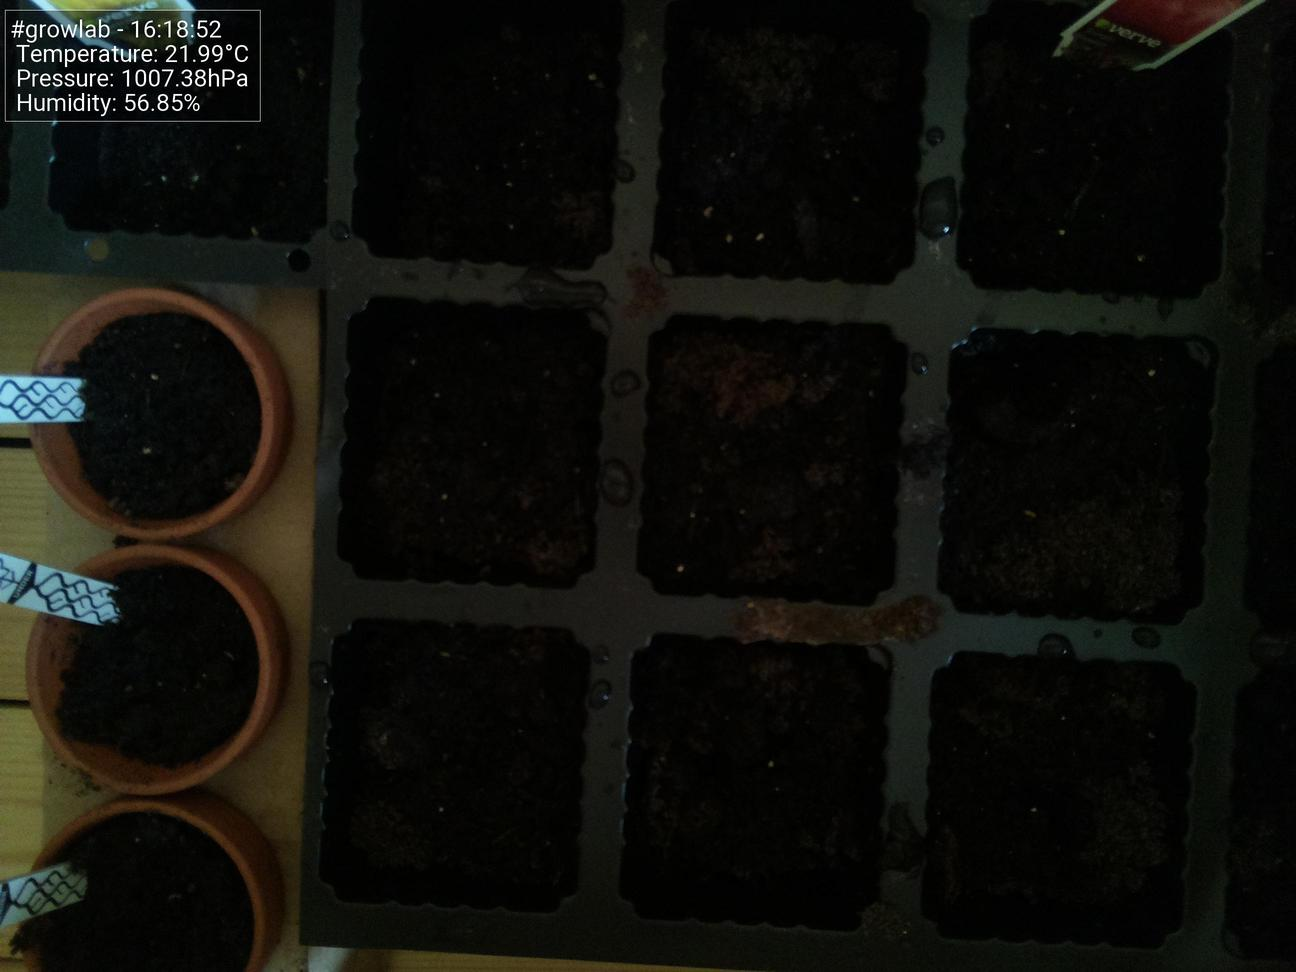
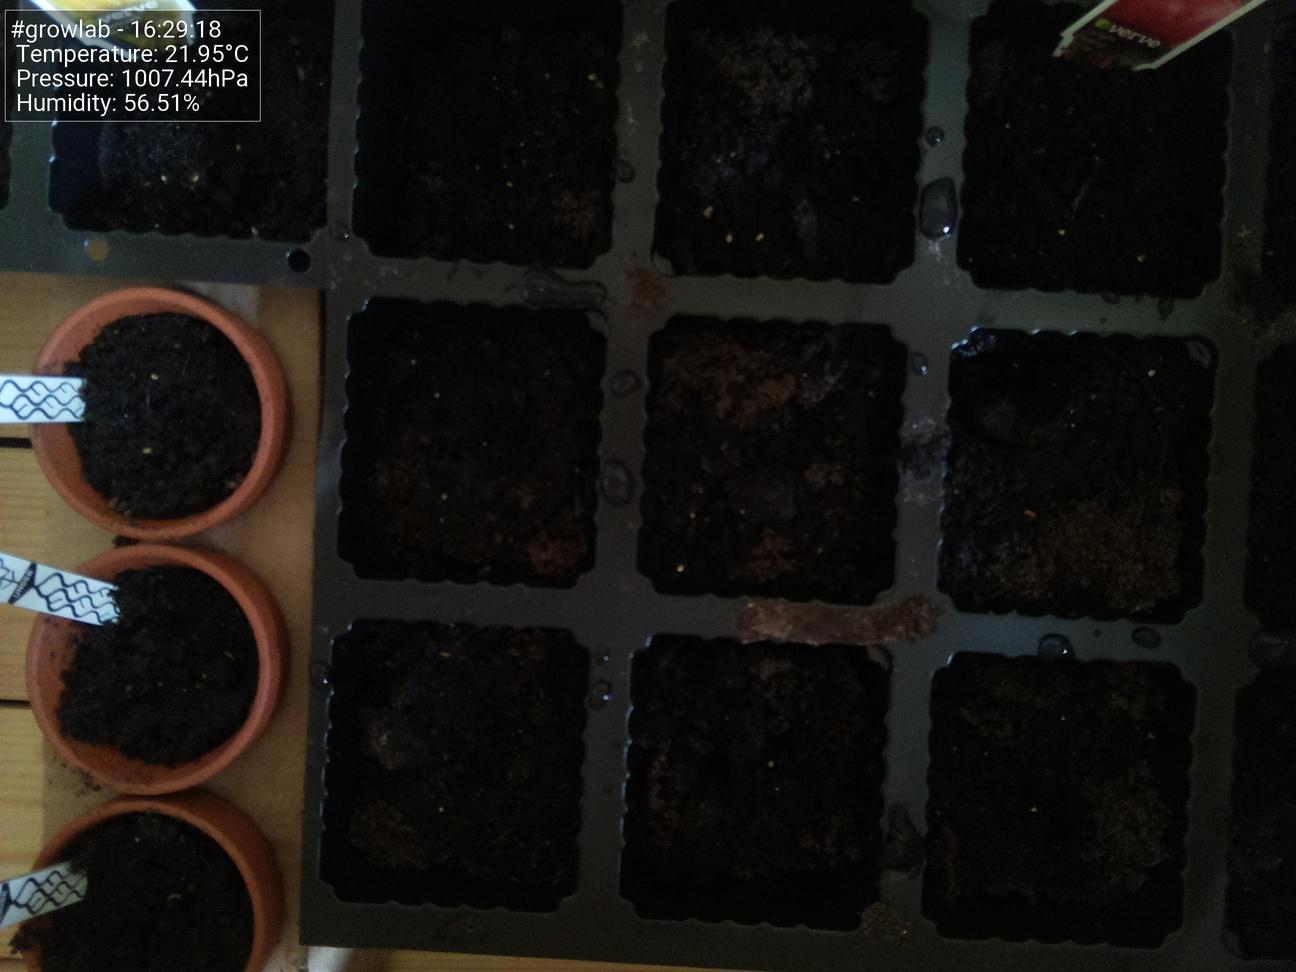
Update images at Wed 26 May 16:29:34 BST 2021

diff --git a/index.html b/index.html
@@ -47,19 +47,19 @@
                         <tbody>
                             <tr>
                                 <td>Time</td>
-                                <td>16:18:52</td>
+                                <td>16:29:18</td>
                             </tr>
                             <tr>
                                 <td>Temperature</td>
-                                <td>21.99°C</td>
+                                <td>21.95°C</td>
                             </tr>
                             <tr>
                                 <td>Humidity</td>
-                                <td>56.85%</td>
+                                <td>56.51%</td>
                             </tr>
                             <tr>
                                 <td>Pressure</td>
-                                <td>1007.38hPa</td>
+                                <td>1007.44hPa</td>
                             </tr>
                         </tbody>
                     </table>
@@ -67,7 +67,7 @@
 
                 <h5>Latest image</h5>
                 <div style="width: 85%;">
-                            <img class="figure-img img-fluid rounded" src="./preview.jpg?uid=1622042347.2940803">
+                            <img class="figure-img img-fluid rounded" src="./preview.jpg?uid=1622042973.2611601">
                 </div>
             </div>
         </div>
